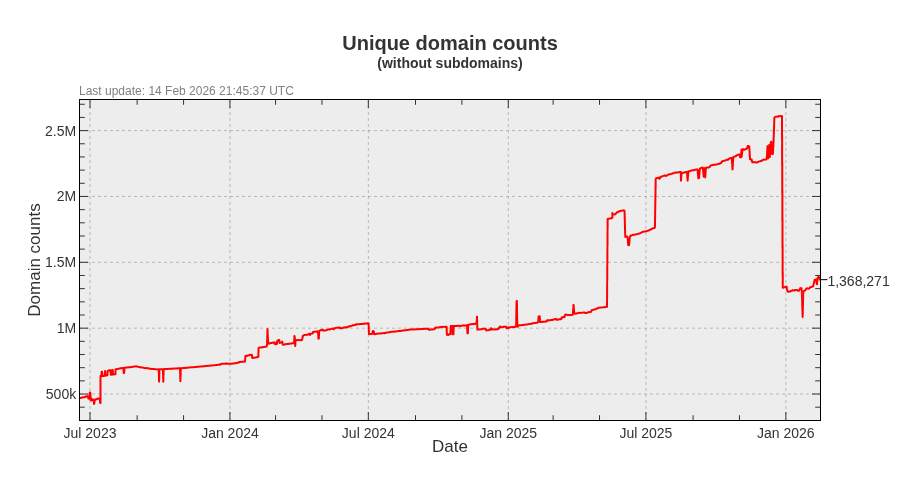
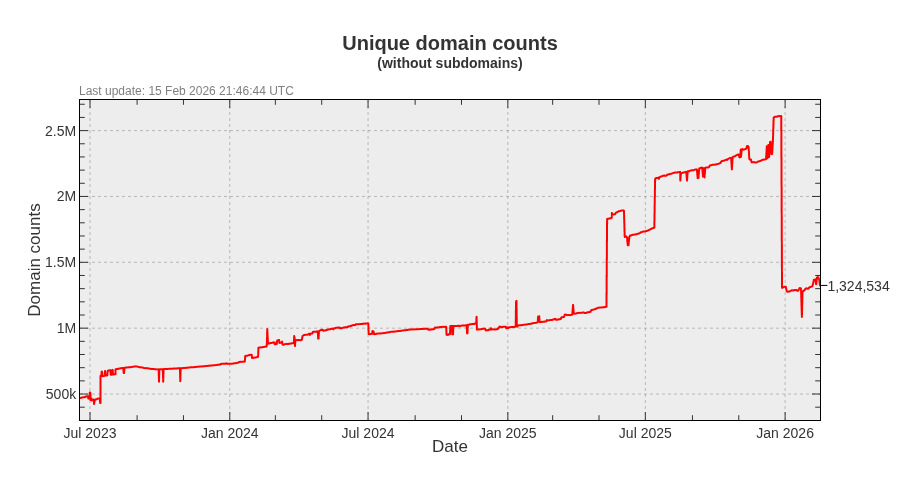
Update pages

diff --git a/README.md b/README.md
@@ -3,22 +3,22 @@ A blocklist file for blocking ads, trackers and malware domains.
 
[1 lines of base64/hex data omitted]
 
-- Unique domains: 2,014,958
-- Without subdomains: 1,368,271
-- Last update: 14 Feb 2026 21:45:37 UTC
-- Version: 2026.02.14.02
+- Unique domains: 1,970,318
+- Without subdomains: 1,324,534
+- Last update: 15 Feb 2026 21:46:44 UTC
+- Version: 2026.02.15.01
 
 
 ### Downloads:
 
 | Format             | Domain count      | Download Link |
 |:------------------ | -----------------:|:-------------:|
-| *Adblock Plus*     | 1,368,271 | [Download](https://dl.cenk.app/bad-hosts/bad-hosts-abp) |
-| *Wildcard domains* | 1,368,271 | [Download](https://dl.cenk.app/bad-hosts/bad-hosts-wildcard) |
-| *dnsmasq*          | 1,368,271 | [Download](https://dl.cenk.app/bad-hosts/bad-hosts-dnsmasq) |
-| *hosts*            | 2,014,958 | [Download](https://dl.cenk.app/bad-hosts/hosts) |
-| *hosts (ipv6)*     | 2,014,958 | [Download](https://dl.cenk.app/bad-hosts/hosts-ipv6) |
-| *Plain domains*    | 2,014,958 | [Download](https://dl.cenk.app/bad-hosts/bad-hosts-domains) |
+| *Adblock Plus*     | 1,324,534 | [Download](https://dl.cenk.app/bad-hosts/bad-hosts-abp) |
+| *Wildcard domains* | 1,324,534 | [Download](https://dl.cenk.app/bad-hosts/bad-hosts-wildcard) |
+| *dnsmasq*          | 1,324,534 | [Download](https://dl.cenk.app/bad-hosts/bad-hosts-dnsmasq) |
+| *hosts*            | 1,970,318 | [Download](https://dl.cenk.app/bad-hosts/hosts) |
+| *hosts (ipv6)*     | 1,970,318 | [Download](https://dl.cenk.app/bad-hosts/hosts-ipv6) |
+| *Plain domains*    | 1,970,318 | [Download](https://dl.cenk.app/bad-hosts/bad-hosts-domains) |
 
 ### Domain count history
 #### With subdomains
